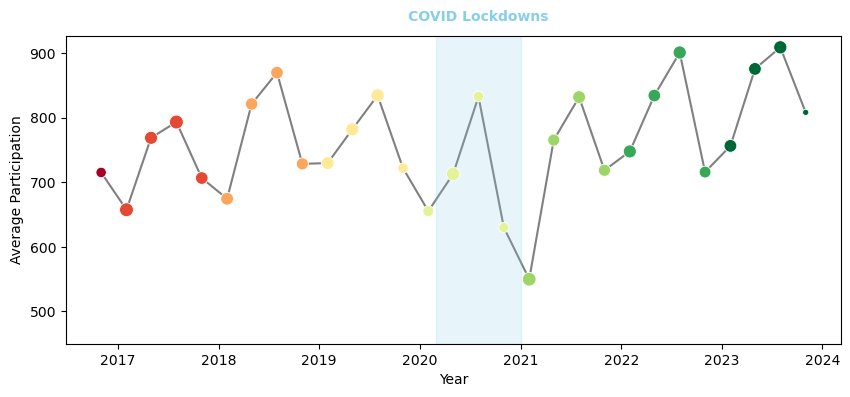
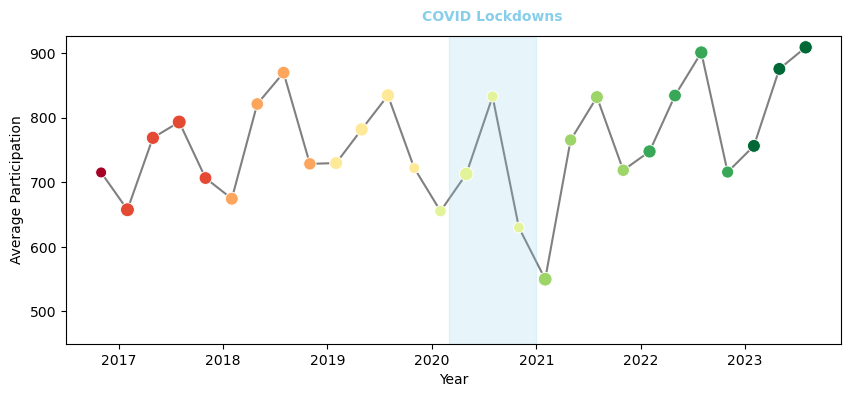
KAN-75: Remove 2023 Q4 from plot (only 1000 observations)

diff --git a/src/stream_1/covid_analysis.py b/src/stream_1/covid_analysis.py
@@ -26,6 +26,7 @@ def prepare_quarterly_data():
     quarterly_df.loc[quarterly_df['month'].isin([11,12]), 'year'] = quarterly_df['year'] - 1
     quarterly_df['quarter_num'] = quarterly_df['month'].map(MONTH_MAP)
     quarterly_df['quarter_date'] = pd.to_datetime(quarterly_df['year'].astype(str) + quarterly_df['quarter_num'].map(QUARTER_MAP).astype(str), format='%Y%m')
+    quarterly_df = quarterly_df[~((quarterly_df['year'] == 2023) & (quarterly_df['quarter_num'] == 4))]
     quarterly_df = quarterly_df.groupby(['year', 'quarter_date', 'quarter_num'])['MEMS7_ALL'].agg(['mean', 'count']).reset_index()
     print(quarterly_df)
     return quarterly_df
@@ -46,7 +47,7 @@ if __name__ == "__main__":
     quarterly_df = prepare_quarterly_data()
     fig, ax = plt.subplots(figsize = (10, 4))
     sns.lineplot(data = quarterly_df, x = 'quarter_date', y = 'mean', ax = ax, zorder = 1, color = 'grey')
-    sns.scatterplot(data = quarterly_df, x = 'quarter_date', y = 'mean', hue = 'year', ax = ax, size = 'count', sizes = (20, 100), legend = False, zorder = 2, palette = 'RdYlGn')
+    sns.scatterplot(data = quarterly_df, x = 'quarter_date', y = 'mean', hue = 'year', ax = ax, size = 'count', sizes = (60, 100), legend = False, zorder = 2, palette = 'RdYlGn')
     ax.set_ylim(450, None)
     ax.set(xlabel = 'Year', ylabel = 'Average Participation')
     ax.axvspan('2020-03-01', '2021-01-01', alpha = 0.2, color = 'skyblue')
